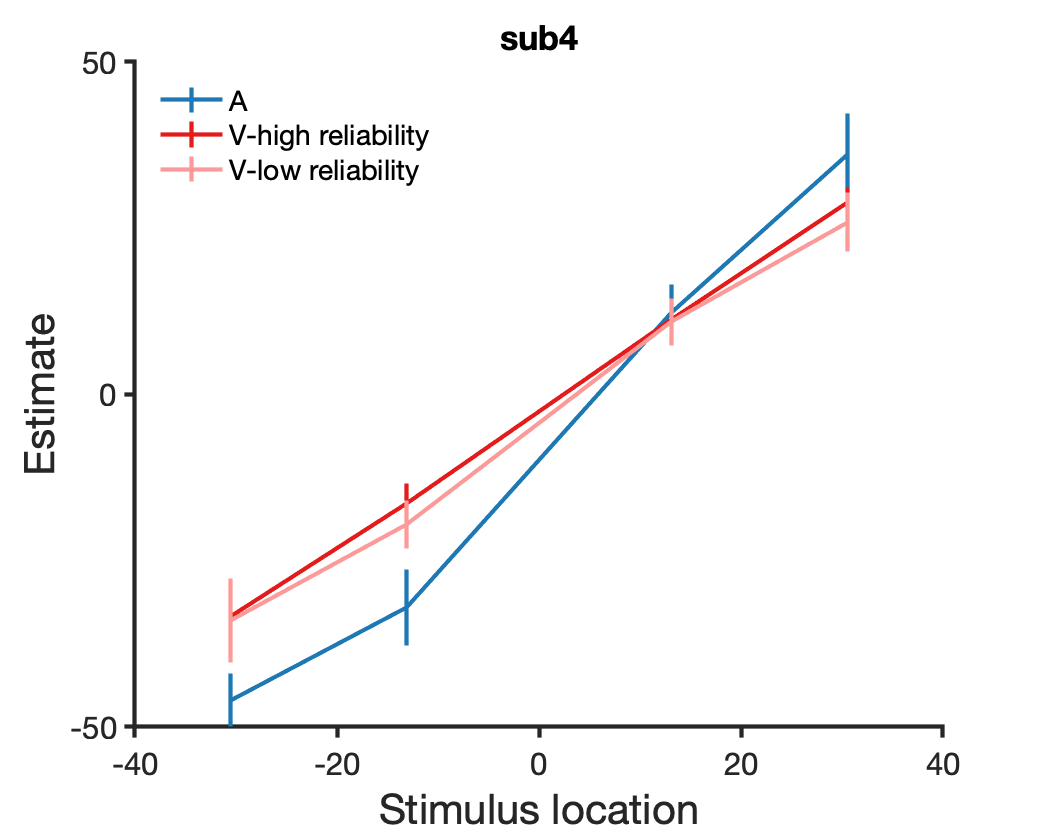
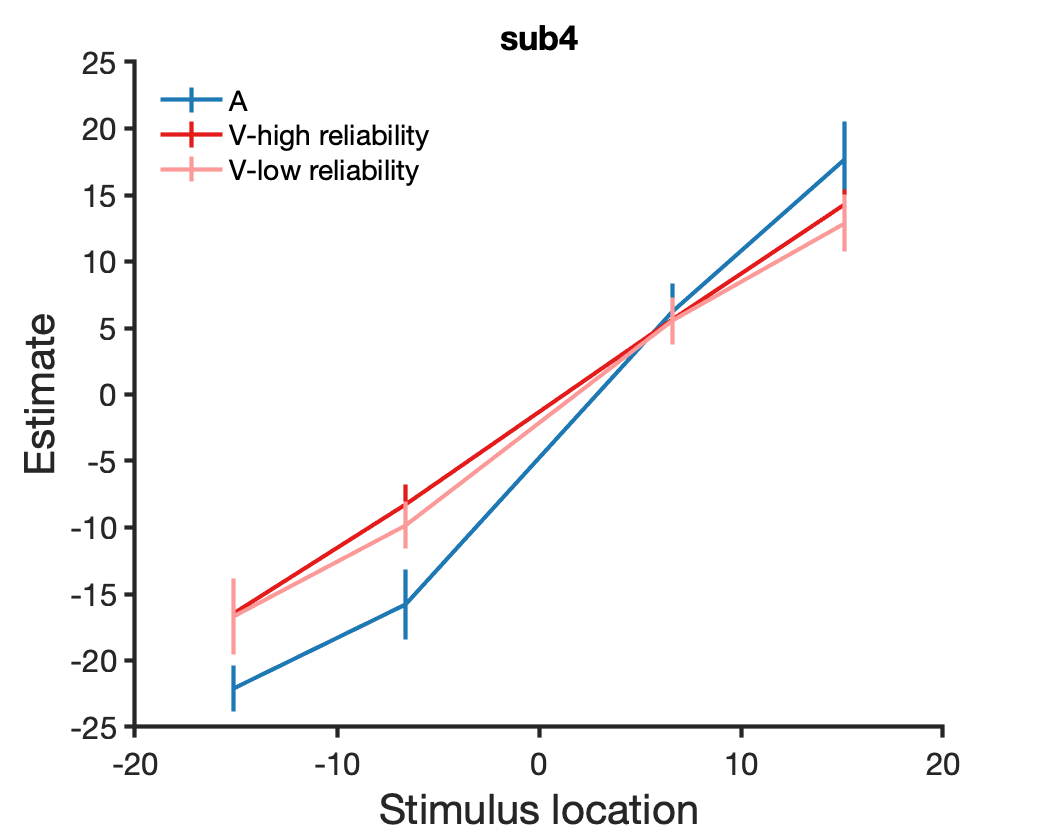
subj3 & 4

diff --git a/analysis/uniLoc/s2_plot_resp_group.m b/analysis/uniLoc/s2_plot_resp_group.m
@@ -2,7 +2,7 @@ clear; clc; close all;
 
 %% set up
 
-sub_slc = 4;
+sub_slc = 2:4;
 
 % session
 ses_labels = {'-A','-V'};
@@ -66,9 +66,9 @@ for i = 1:numel(sub_slc)
     for j = 1:num_cond
 
         % reshape by stimulus level
-        locRep = reshape([orgResp{i,j}(1:end).target_cm],[num_rep,num_loc]);
+        locRep = reshape([orgResp{i,j}(1:end).target_deg],[num_rep,num_loc]);
         stim(i, j, :) = locRep(1,:);
-        temp_resp = reshape([orgResp{i,j}(1:end).response_cm],[num_rep,num_loc]);
+        temp_resp = reshape([orgResp{i,j}(1:end).response_deg],[num_rep,num_loc]);
 
         resp(i, j, :, :) = temp_resp'; % subject, session(aud, v1, v2), location, rep
 
@@ -107,8 +107,8 @@ for i = 1:numel(sub_slc)
 
     set(gcf, 'Position',[0 0 1400 400])
     t = tiledlayout(1,3);
-    xlabel(t,'Stimulus location', 'FontSize', titleSZ)
-    ylabel(t,'Estimate','FontSize', titleSZ)
+    xlabel(t,'Stimulus location (deg)', 'FontSize', titleSZ)
+    ylabel(t,'Estimate (deg)','FontSize', titleSZ)
     title(t, sprintf('sub%i',sub),'FontSize', titleSZ)
 
 
@@ -236,4 +236,5 @@ end
     xticks(1:num_cond)
     xtickangle(30)
     xticklabels(cond_label)
+    title('Group average')
 

diff --git a/exptCode/biloc/BimodalLocalization.m b/exptCode/biloc/BimodalLocalization.m
@@ -280,4 +280,4 @@ ExpInfo.finish                       = sprintf('%04d/%02d/%02d_%02d:%02d:%02d',c
 % sortedResp                           = Resp(temp);
 save(fullfile(outDir,outFileName),'Resp','ExpInfo','ScreenInfo','VSinfo','AudInfo');
 
-%Screen('CloseAll')
+Screen('CloseAll')

diff --git a/analysis/uniLoc/s3_transferAV.m b/analysis/uniLoc/s3_transferAV.m
@@ -3,7 +3,7 @@ clear; clc; close all;
 
 %% set up
 
-sub = 4;
+sub = 3;
 
 %% manage path
 
